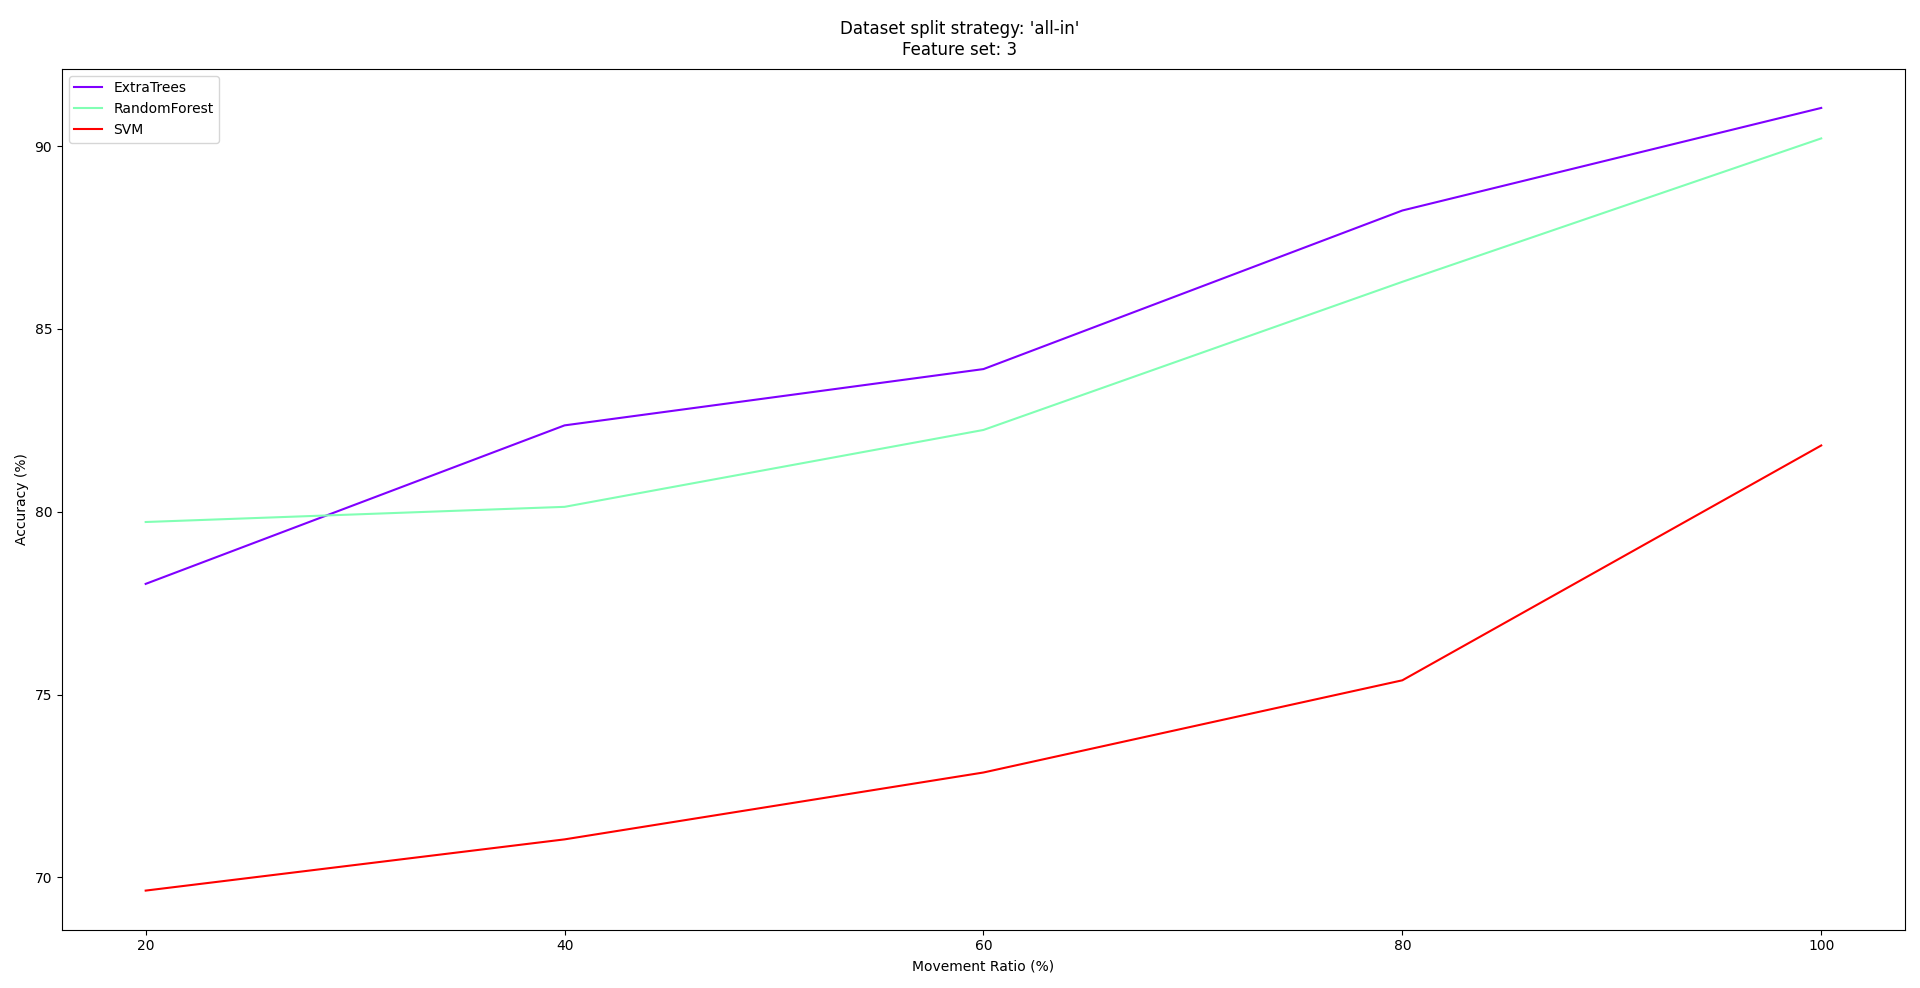
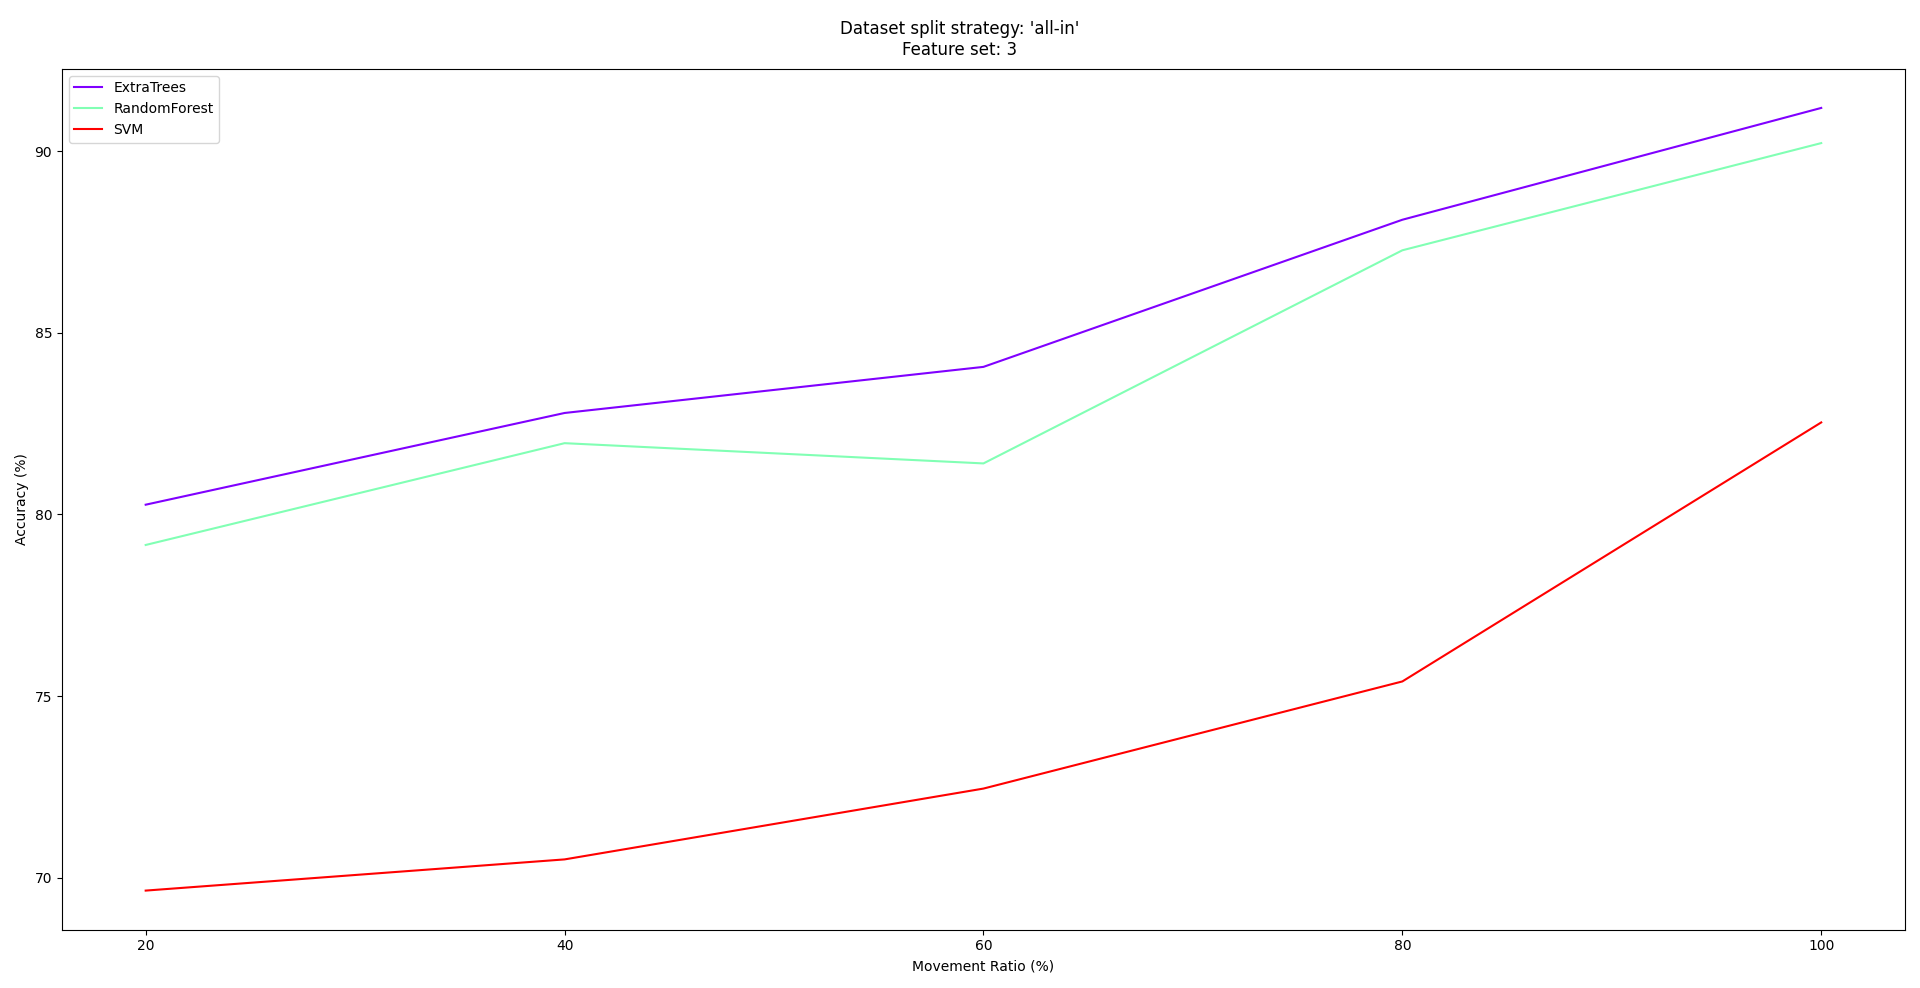
title & plots

diff --git a/README.md b/README.md
@@ -1,4 +1,4 @@
-# Human action prediction from hand movement for human-robot collaboration
+# Object size prediction from hand movement using a single RGB sensor
 ## Dependencies
 - Python version: >= 3.3
 
@@ -88,27 +88,27 @@ python3 evaluate_ml.py all-in --feature_sets 5 3 1 --methods ExtraTrees RandomFo
 ```
 Dataset split strategy: 'all-in'
 feature set: 1 ['index-middle aperture', 'thumb-index aperture', 'thumb-middle aperture']
-               20    40    60    80    100
-SVM          68.26 68.97 72.73 76.07 82.64
-RandomForest 76.21 80.02 80.99 86.15 89.79
-ExtraTrees   75.38 82.39 82.39 87.56 90.91
+                     20          40          60          80          100
+ExtraTrees    77.1 (5.0)  82.4 (4.2)  82.8 (4.1)  88.4 (3.5)  92.0 (3.3)
+RandomForest  77.0 (4.8)  79.4 (4.2)  82.1 (3.9)  87.0 (3.0)  89.4 (3.2)
+SVM           67.4 (2.3)  69.0 (3.8)  73.4 (2.5)  75.7 (3.7)  82.7 (3.0)
 
 Dataset split strategy: 'all-in'
 feature set: 3 ['index-middle aperture', 'thumb-index aperture', 'thumb-middle aperture', 'wrist x-std_dev', 'wrist y-std_dev']
-               20    40    60    80    100
-SVM          69.64 71.04 72.87 75.39 81.81
-RandomForest 79.72 80.13 82.24 86.29 90.21
-ExtraTrees   78.03 82.36 83.90 88.24 91.04
+                     20          40          60          80          100
+ExtraTrees    78.5 (2.9)  82.1 (4.3)  84.6 (3.4)  88.1 (2.4)  91.0 (2.3)
+RandomForest  78.9 (4.3)  80.1 (3.7)  81.4 (2.8)  86.4 (3.1)  88.5 (3.2)
+SVM           69.5 (5.2)  70.8 (2.9)  71.9 (4.8)  75.1 (5.1)  82.1 (4.5)
 
 Dataset split strategy: 'all-in'
 feature set: 5 ['index-middle aperture', 'thumb-index aperture', 'thumb-middle aperture', 'wrist x-speed', 'wrist y-speed']
-               20    40    60    80    100
-SVM          36.77 42.12 48.82 53.41 55.27
-RandomForest 77.05 78.72 81.94 84.75 88.66
-ExtraTrees   77.18 81.66 82.50 86.28 90.49
+                     20          40          60          80          100
+ExtraTrees    77.3 (5.0)  80.8 (4.3)  83.6 (3.1)  87.4 (3.0)  90.8 (4.3)
+RandomForest  75.9 (6.1)  80.0 (2.0)  82.0 (3.6)  85.4 (5.1)  87.3 (4.4)
+SVM           36.2 (6.1)  42.9 (5.4)  49.0 (6.3)  53.3 (5.2)  56.2 (3.9)
 ```
 
-For each method, movement completion percentage and feature set combination, the floating point number indicates the average accuracy of the model in the k-fold evaluation scheme.
+For each method, movement completion percentage and feature set combination, the floating point numbers indicate the mean and the standard deviation of the model's accuracy rates in the k-fold evaluation scheme.
 
 <b>Note:</b> The models' accuracy results will NOT be the same for two executions of the evaluation script with the same arguments unless a seed is provided. 
 
